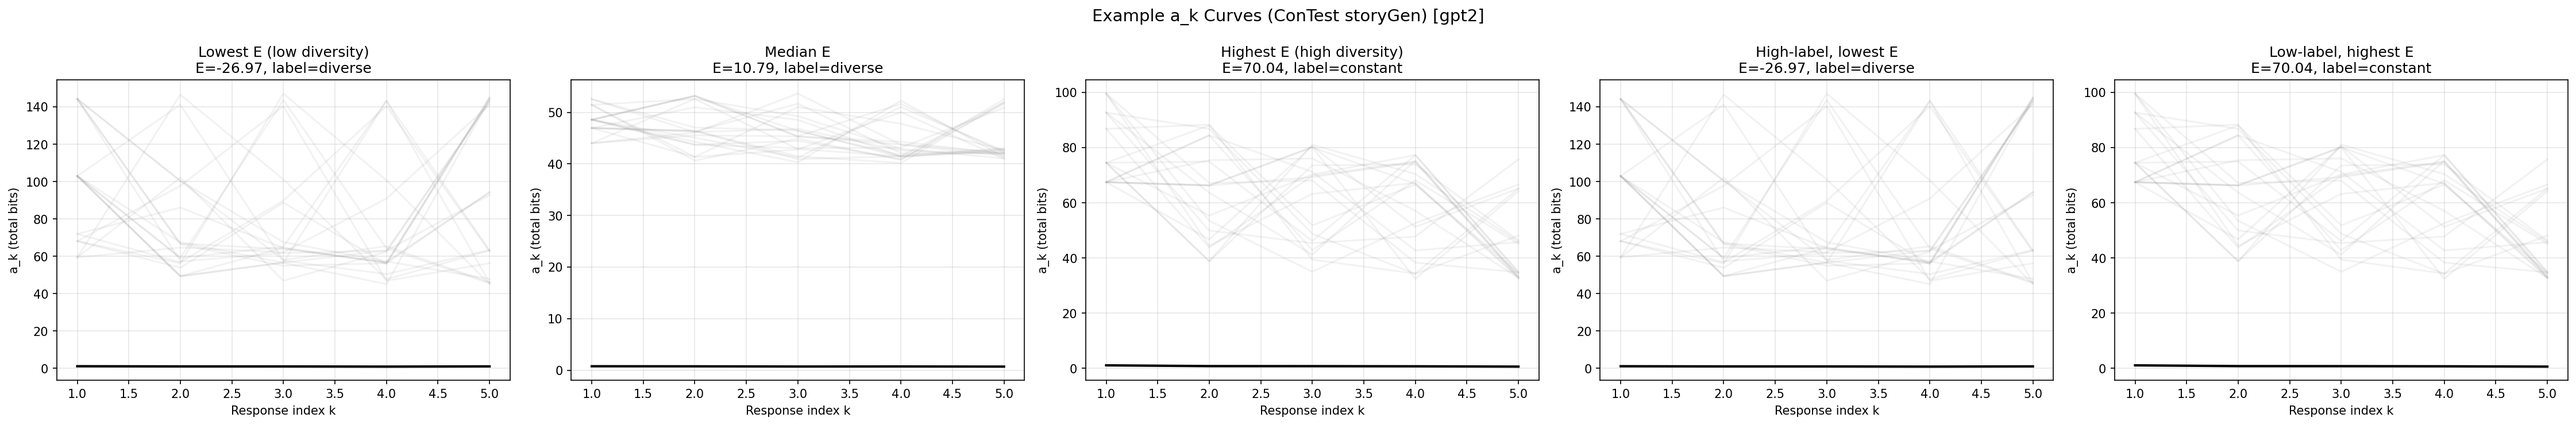
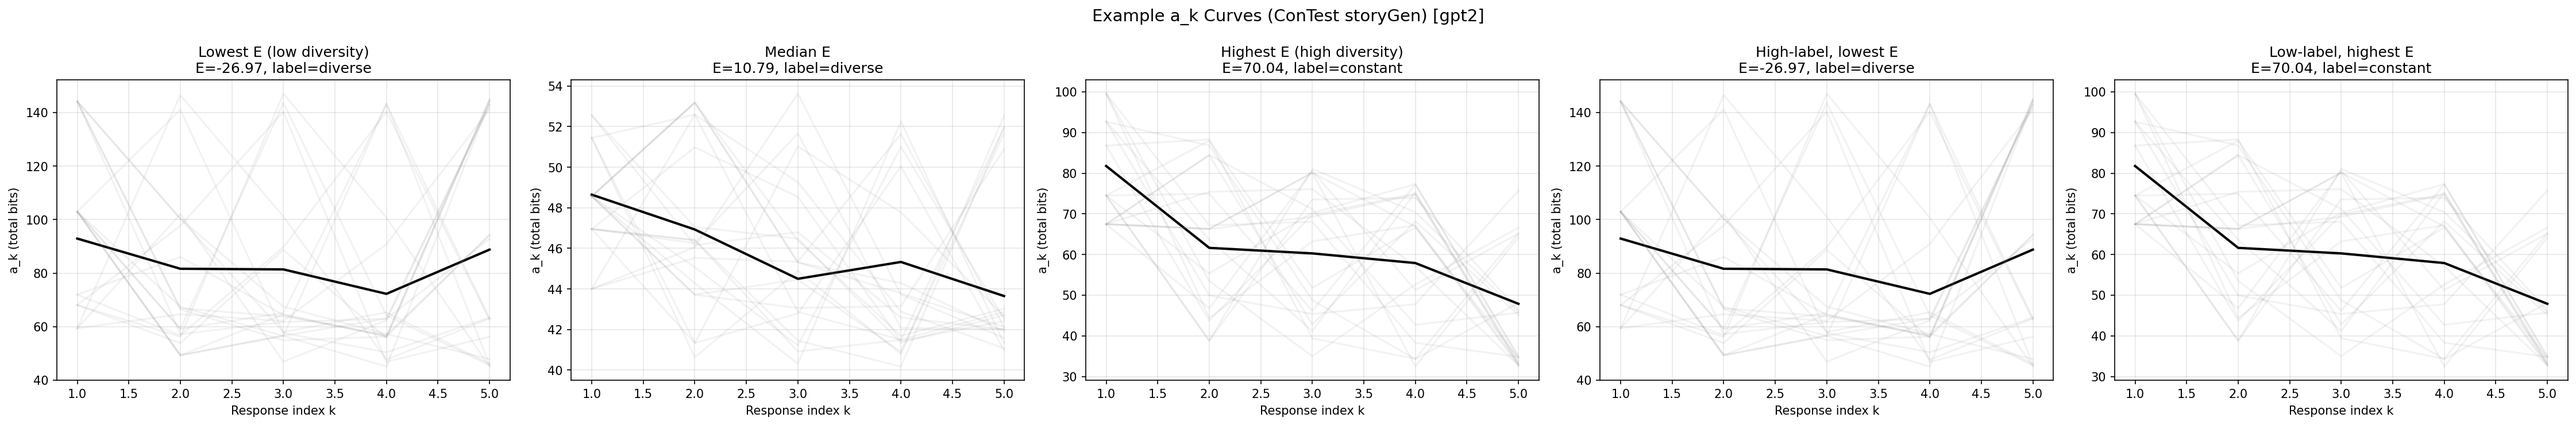
fix: use total bits (not bits/byte) for a_k curve plots
The primary a_k curve is in total bits per the paper. Per-byte
normalized quantities are secondary.

diff --git a/scripts/plot_tevet_ak_curves.py b/scripts/plot_tevet_ak_curves.py
@@ -105,7 +105,7 @@ def plot_contest_summary(data_dir: Path, tag: str, output_dir: Path) -> None:
             entry = sidecar[sid]
             if entry.get("skipped"):
                 continue
-            curve = entry.get("a_k_curve_per_byte")
+            curve = entry.get("a_k_curve")
             if curve is None:
                 continue
             label = float(row["label_value"])
@@ -140,7 +140,7 @@ def plot_contest_summary(data_dir: Path, tag: str, output_dir: Path) -> None:
             )
 
         ax.set_xlabel("Response index k")
-        ax.set_ylabel("a_k (bits/byte)")
+        ax.set_ylabel("a_k (total bits)")
         ax.set_title(task_label)
         ax.legend()
         ax.grid(True, alpha=0.3)
@@ -185,7 +185,7 @@ def plot_dectest_temperature_sweep(data_dir: Path, tag: str, output_dir: Path) -
                 entry = sidecar[sid]
                 if entry.get("skipped"):
                     continue
-                curve = entry.get("a_k_curve_per_byte")
+                curve = entry.get("a_k_curve")
                 if curve is None:
                     continue
                 temp = float(row["label_value"])
@@ -216,7 +216,7 @@ def plot_dectest_temperature_sweep(data_dir: Path, tag: str, output_dir: Path) -
                 ax.plot(x, mean_curve, label=f"τ={temp:.1f} (n={len(curves)})", color=color)
 
             ax.set_xlabel("Response index k")
-            ax.set_ylabel("a_k (bits/byte)")
+            ax.set_ylabel("a_k (total bits)")
             ax.set_title(task_label)
             ax.legend(fontsize=8)
             ax.grid(True, alpha=0.3)
@@ -257,7 +257,7 @@ def plot_mcdiv_nuggets_summary(data_dir: Path, tag: str, output_dir: Path) -> No
             entry = sidecar[sid]
             if entry.get("skipped"):
                 continue
-            curve = entry.get("a_k_curve_per_byte")
+            curve = entry.get("a_k_curve")
             if curve is None:
                 continue
             label = float(row["label_value"])
@@ -292,7 +292,7 @@ def plot_mcdiv_nuggets_summary(data_dir: Path, tag: str, output_dir: Path) -> No
             )
 
         ax.set_xlabel("Response index k")
-        ax.set_ylabel("a_k (bits/byte)")
+        ax.set_ylabel("a_k (total bits)")
         ax.set_title(task_label)
         ax.legend()
         ax.grid(True, alpha=0.3)
@@ -331,7 +331,7 @@ def plot_example_curves(data_dir: Path, tag: str, output_dir: Path) -> None:
         e_val = metrics.get("excess_entropy_E", 0)
         label = float(row["label_value"])
         per_perm = entry.get("per_permutation_a_k_curves")
-        mean_curve = entry.get("a_k_curve_per_byte")
+        mean_curve = entry.get("a_k_curve")
         if mean_curve is None:
             continue
         examples.append(
